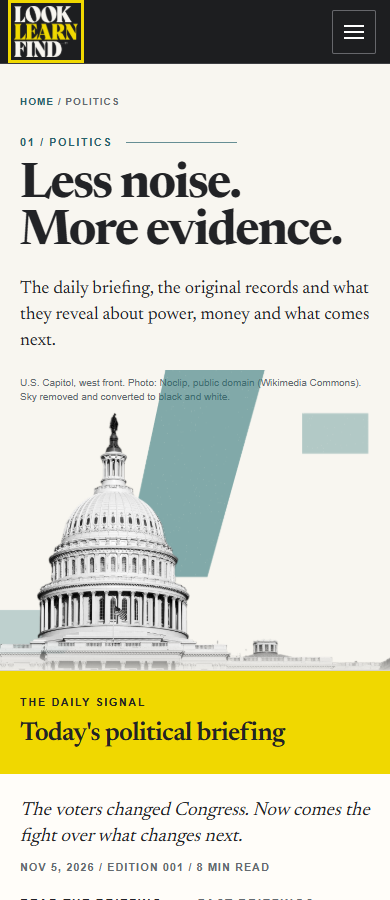
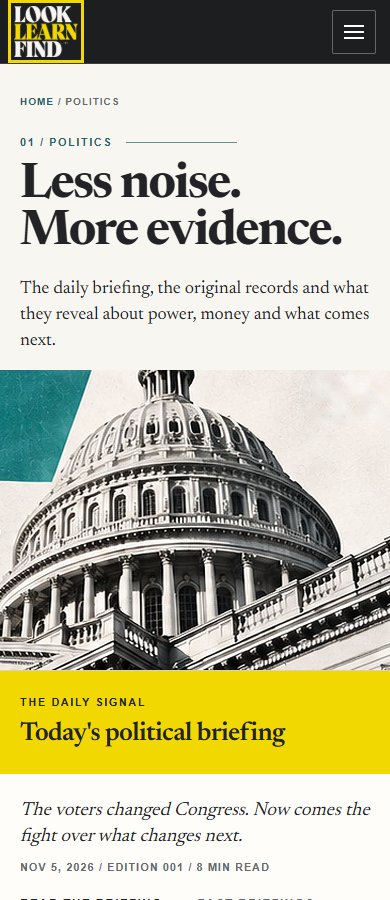
Politics: use the owner-supplied mockup images (hero, leadership, tiles, signals) on the homepage and Daily Signal teasers and chapters

Changed region(s): [[0.0, 0.4044, 1.0, 0.7467]]

diff --git a/static/css/politics.css b/static/css/politics.css
@@ -25,9 +25,9 @@ body.pol-home{--pol-gutter:48px;--pol-max:1240px}
 .pol-hero h1{font:normal 700 clamp(44px,4.9vw,84px)/.95 var(--serif);letter-spacing:-.036em;margin:14px 0 0;color:var(--llf-ink)}
 .pol-hero__deck{font:normal 21px/1.45 var(--serif);max-width:460px;margin:20px 0 0}
 .pol-duo{position:relative;margin:0;min-height:460px}
-.pol-duo__plane{position:absolute;inset:0;background:url(/img/politics/teal-geometry.png) center top/100% 100% no-repeat}
-.pol-duo__img{position:absolute;left:-2%;bottom:-2%;width:112%;max-width:none;height:auto;filter:contrast(1.08) drop-shadow(0 1px 0 rgba(0,0,0,.22))}
-.pol-duo figcaption{position:absolute;left:4%;top:10px;max-width:190px;font:10px/1.35 var(--sans);color:var(--muted);text-align:left}
+.pol-duo__plane{display:none}
+.pol-duo__img{position:absolute;inset:0;width:100%;height:100%;max-width:none;object-fit:cover;object-position:left center}
+.pol-duo figcaption{position:absolute;right:8px;bottom:6px;max-width:260px;padding:2px 6px;background:rgba(20,22,24,.6);font:9px/1.35 var(--sans);color:#fff;text-align:right}
 
 /* ---- Daily Signal: yellow field on the left (the one yellow tab), live headline on the right. */
 .pol-daily{background:var(--llf-white);border-top:1px solid var(--llf-line);border-bottom:1px solid var(--llf-line)}
@@ -194,7 +194,7 @@ body.pol-home{--pol-gutter:48px;--pol-max:1240px}
 .pol-teaser{display:grid;grid-template-columns:minmax(0,.9fr) minmax(0,1.1fr);gap:0 22px;border-top:2px solid var(--llf-ink);padding-top:16px;align-items:start}
 .pol-teaser:first-child{grid-column:1 / -1;grid-template-columns:minmax(0,1.15fr) minmax(0,1fr);gap:0 36px}
 .pol-teaser__pic{position:relative;display:block;aspect-ratio:3/2;overflow:hidden;background:var(--llf-line)}
-.pol-teaser__pic img{width:100%;height:100%;object-fit:cover;display:block}
+.pol-teaser__pic img{width:100%;height:100%;object-fit:cover;object-position:center 62%;display:block}
 .pol-teaser__pic .pol-credit{position:absolute;right:4px;bottom:3px;margin:0;padding:1px 5px;background:rgba(20,22,24,.62);color:#fff;font-size:9px}
 .pol-teaser__body{display:flex;flex-direction:column;min-width:0}
 .pol-teaser__a{display:block;color:var(--llf-ink);text-decoration:none}
@@ -243,7 +243,7 @@ body.pol-home{--pol-gutter:48px;--pol-max:1240px}
 .pol-ed__sec.pol-ed__signals{max-width:1240px}
 .pol-teasers__list--ed{margin-top:22px}
 .pol-ed__fig{margin:0 0 24px}
-.pol-ed__fig img{width:100%;aspect-ratio:16/9;object-fit:cover;display:block}
+.pol-ed__fig img{display:block;width:auto;max-width:100%;height:auto;max-height:440px}
 .pol-ed__fig figcaption{font:11px/1.4 var(--sans);color:var(--muted);margin-top:6px}
 .pol-ed__chapter{padding-top:34px;border-top:1px solid var(--llf-line)}
 .pol-ed__pn{display:grid;grid-template-columns:1fr 1fr;gap:16px;margin-top:22px;border-top:1px solid var(--llf-line);padding-top:14px}

diff --git a/tools/politics/prepare_supplied_images.py b/tools/politics/prepare_supplied_images.py
@@ -1,0 +1,55 @@
+#!/usr/bin/env python3
+"""Prepare the images supplied with the approved homepage mockup (docs/politics/brand/edition-001/assets/) for the site.
+
+The supplied files are small crops of the mockup. Some contain slivers of the mockup's own text (headline fragments, the top-right section labels). This script
+only crops those slivers away (or paints them out of plain paper), upscales with a high-quality filter and saves JPEGs to static/img/politics/supplied/. The
+originals stay untouched. No image is generated or redrawn. Usage: python tools/politics/prepare_supplied_images.py
+"""
+from pathlib import Path
+
+import cv2
+import numpy as np
+from PIL import Image, ImageFilter
+
+ROOT = Path(__file__).resolve().parents[2]
+SRC = ROOT / "docs" / "politics" / "brand" / "edition-001" / "assets"
+OUT = ROOT / "static" / "img" / "politics" / "supplied"
+
+# name -> (source file, crop box left, top, right, bottom, upscale factor)
+JOBS = {
+    "hero": ("hero_capitol_composite_reference.jpg", (50, 0, 555, 281), 3),
+    "leadership": ("jeffries_schumer_composite_reference.jpg", (0, 0, 579, 315), 3),
+    "vote": ("vote_state_tile_reference.jpg", (72, 12, 165, 186), 4),
+    "money": ("money_tile_reference.jpg", (64, 12, 166, 187), 4),
+    "record": ("state_record_tile_reference.jpg", (60, 10, 140, 180), 4),
+    "signals": ("election_signals_reference.jpg", (24, 24, 302, 163), 3),
+}
+
+
+def paint_out_labels(im):
+    """The hero crop carries the mockup's small section labels at the top right, over plain paper. Remove only those dark text pixels by inpainting."""
+    a = np.asarray(im.convert("RGB"))
+    h, w = a.shape[:2]
+    x0, y0, x1, y1 = int(w * 0.57), 0, w, int(h * 0.24)
+    roi = cv2.cvtColor(a[y0:y1, x0:x1], cv2.COLOR_RGB2GRAY)
+    mask = np.zeros(a.shape[:2], np.uint8)
+    mask[y0:y1, x0:x1] = (roi < 110).astype(np.uint8) * 255
+    mask = cv2.dilate(mask, np.ones((5, 5), np.uint8))
+    out = cv2.inpaint(cv2.cvtColor(a, cv2.COLOR_RGB2BGR), mask, 4, cv2.INPAINT_TELEA)
+    return Image.fromarray(cv2.cvtColor(out, cv2.COLOR_BGR2RGB))
+
+
+def main():
+    OUT.mkdir(parents=True, exist_ok=True)
+    for key, (fname, box, k) in JOBS.items():
+        im = Image.open(SRC / fname).convert("RGB")
+        if key == "hero":
+            im = paint_out_labels(im)
+        im = im.crop(box)
+        im = im.resize((im.width * k, im.height * k), Image.LANCZOS).filter(ImageFilter.UnsharpMask(radius=2, percent=60, threshold=2))
+        im.save(OUT / f"{key}.jpg", quality=90, optimize=True)
+        print(key, im.size)
+
+
+if __name__ == "__main__":
+    main()

diff --git a/politics.py b/politics.py
@@ -221,9 +221,9 @@ def leadership_record(api, m):
 def tile(api, mid, m, cta_html, extra=""):
     """A topic tile: text on the paper side, a photograph on the other side cut by a diagonal edge. Natural colour or monochrome, never a blanket filter."""
     im = m["image"]
-    cr = credit_line(api, im["key"])
+    cr = im.get("credit") or credit_line(api, im.get("key", ""))
     return (f'<article class="pol-tile" id="{mid}" aria-labelledby="{mid}-h"><div class="pol-tile__t">{_head(m, mid + "-h")}<p class="pol-tile__d">{e(m["deck"])}</p>{cta_html}{extra}</div>'
-            f'<div class="pol-tile__pic"><img class="pol-img--{e(im["treatment"])}" src="{_img(im["key"])}" alt="" loading="lazy" width="1200" height="800">'
+            f'<div class="pol-tile__pic"><img class="pol-img--{e(im["treatment"])}" src="{e(im.get("src") or _img(im["key"]))}" alt="" loading="lazy">'
             f'<span class="pol-credit">{e(cr)}</span></div></article>')
 
 
@@ -267,7 +267,7 @@ def record_tile(api, m):
 
 def signals_tile(api, m):
     im = m["image"]
-    cr = credit_line(api, im["key"])
+    cr = im.get("credit") or credit_line(api, im.get("key", ""))
     items = [i for i in (m.get("items") or []) if i.get("status") == "approved"]
     body = "".join(f'<li><b>{e(i["headline"])}</b> {e(i["stat_or_comparison"])} <span class="pol-credit">Verified {e(i["verified_at"])} by {e(i["reviewer"])}. {e(i["method_note"])}</span></li>' for i in items)
     none = "" if items else f'<p class="pol-signals__none">{e(m["no_signal"])}</p>'
@@ -275,8 +275,8 @@ def signals_tile(api, m):
     links = prim + _cta(api, "signals", m["method"], "pol-cta pol-cta--quiet")
     return (f'<article class="pol-signals" id="election-signals" aria-labelledby="pol-sig-h"><div class="pol-signals__t">{_head(m, "pol-sig-h")}<p class="pol-tile__d">{e(m["deck"])}</p>'
             f'{("<ul class=pol-sigl>" + body + "</ul>") if items else ""}{none}<p class="pol-signals__links">{links}</p></div>'
-            f'<div class="pol-signals__pic"><img class="pol-img--{e(im["treatment"])}" src="{_img(im["key"])}" alt="" loading="lazy" width="1200" height="800">'
-            f'<span class="pol-signals__plane" aria-hidden="true"></span><span class="pol-credit">{e(cr)}</span></div></article>')
+            f'<div class="pol-signals__pic"><img class="pol-img--{e(im["treatment"])}" src="{e(im.get("src") or _img(im["key"]))}" alt="" loading="lazy">'
+            f'<span class="pol-credit">{e(cr)}</span></div></article>')
 
 
 def reporting_list(api, m, site, threads):

diff --git a/tests/test_politics.py b/tests/test_politics.py
@@ -182,8 +182,8 @@ class Built(unittest.TestCase):
         self.assertEqual(self.land.count('class="pol-tab"'), 1); self.assertIn('class="pol-duo"', self.land)
 
     def test_cutouts_use_real_portraits_with_a_caption_that_denies_a_joint_appearance(self):
-        self.assertIn("leadership-composite.jpg", self.land)
-        self.assertIn("the two are not pictured together", self.land.lower())
+        self.assertIn("supplied/leadership.jpg", self.land)
+        self.assertIn("not a real joint appearance", self.land.lower())
 
     def test_historical_context_is_labelled(self):
         self.assertIn("PRE-ELECTION REPORT / HISTORICAL CONTEXT", self.land)
@@ -203,7 +203,7 @@ class Built(unittest.TestCase):
         p.write_text(self.land.replace("</main>", "<p>The challenger won.</p></main>", 1), encoding="utf-8")
         self.assertTrue(any("election-claim" in x for x in pc.check_pages(d)))
         rows = pc.load_assets()
-        rows["static/img/politics/leadership-composite.jpg"] = dict(rows["static/img/politics/leadership-composite.jpg"], usage_status="pending")
+        rows["static/img/politics/supplied/leadership.jpg"] = dict(rows["static/img/politics/supplied/leadership.jpg"], usage_status="pending")
         self.assertTrue(any("usage_status" in x for x in pc.check_pages(DIST, assets=rows)))
 
     def test_search_includes_hubs(self):

diff --git a/tools/qa/politics_completeness.py b/tools/qa/politics_completeness.py
@@ -121,7 +121,7 @@ def main(argv):
         src = next(i for i in rec["blocks"]["signals"]["items"] if i["target"] == t["target"])
         m = next((x for x in re.finditer(r'<li class="pol-teaser">.*?</li>', land, re.S) if f'/politics/daily/2026-11-05/#{t["target"]}"' in x.group(0)), None)
         ok_sum = bool(m) and norm(src["teaser"]) in norm(m.group(0))
-        ok_img = bool(m) and t["image"]["src"] in m.group(0) and (ROOT / "static" / t["image"]["src"].lstrip("/")).exists()
+        ok_img = bool(m) and t["image"]["src"] in m.group(0) and (ROOT / "static" / t["image"]["src"].split("?")[0].lstrip("/")).exists()
         ok_target = f'id="{t["target"]}"' in page
         row = assets.get("static" + t["image"]["src"])
         teasers.append((t["n"], t["title"], t["target"], ok_sum, ok_img, ok_target, row["rights_basis"] if row else "(site image, see hero credits)", row["usage_status"] if row else "cleared"))

diff --git a/tools/qa/politics_contract_check.py b/tools/qa/politics_contract_check.py
@@ -24,7 +24,7 @@ RESULT_TERMS = re.compile(r"\b(won|wins|winning|winner|winners|projected to win|
 SAFE_CONTEXT = re.compile(r"\b(not|no|never|until|unless|without|only when|if|before|cannot|isn't|is not|has not|have not)\b", re.I)
 DAILY_FILE = ROOT / "data" / "politics_daily" / "2026-11-05-edition-001.json"
 MANIFEST = ROOT / "docs" / "politics" / "brand" / "ASSET_MANIFEST.csv"
-OK_ASSET_STATUS = ("cleared", "labelled_ai")
+OK_ASSET_STATUS = ("cleared", "labelled_ai", "owner_supplied")
 REQUIRED_DAILY = ("story_id", "date", "title", "dek", "sources", "author", "editor", "update_log", "status")
 MAX_DAILY_AGE_DAYS = 3        # an approved briefing older than this is a WARNING (historical records stay), never a build failure
 

diff --git a/docs/politics/CONTENT_COMPLETENESS_REPORT.md b/docs/politics/CONTENT_COMPLETENESS_REPORT.md
@@ -24,11 +24,11 @@ Not rendered, by design: the draft's "Page UX and navigation" section. It is pro
 
 | # | Homepage title | Links to | Summary rendered | Image present | Target exists | Image rights | Status |
 |---|---|---|---|---|---|---|---|
-| 01 | A new majority. The same leaders? | `#leadership` | yes | yes | yes | Public domain | cleared |
-| 02 | The political map broke in places nobody expected. | `#geography` | yes | yes | yes | CC BY-SA 2.0 (Wikimedia Commons) | cleared |
-| 03 | The cost of living dominated. What will Congress actually do? | `#voters` | yes | yes | yes | CC0 (Wikimedia Commons) | cleared |
-| 04 | Nearly $12 billion later, what did the money accomplish? | `#money` | yes | yes | yes | Public domain (Wikimedia Commons) | cleared |
-| 05 | The biggest changes may happen outside Washington. | `#states` | yes | yes | yes | CC BY-SA 2.0 | cleared |
+| 01 | A new majority. The same leaders? | `#leadership` | yes | yes | yes | (site image, see hero credits) | cleared |
+| 02 | The political map broke in places nobody expected. | `#geography` | yes | yes | yes | (site image, see hero credits) | cleared |
+| 03 | The cost of living dominated. What will Congress actually do? | `#voters` | yes | yes | yes | (site image, see hero credits) | cleared |
+| 04 | Nearly $12 billion later, what did the money accomplish? | `#money` | yes | yes | yes | (site image, see hero credits) | cleared |
+| 05 | The biggest changes may happen outside Washington. | `#states` | yes | yes | yes | (site image, see hero credits) | cleared |
 
 Homepage teaser titles 02 and 03 follow the owner's directive; the briefing keeps the draft's own wording (`The political map broke in unexpected places`, `The cost of living dominated. What will Congress actually do?`). Teaser summaries are the draft's own teaser paragraphs, unchanged.
 
